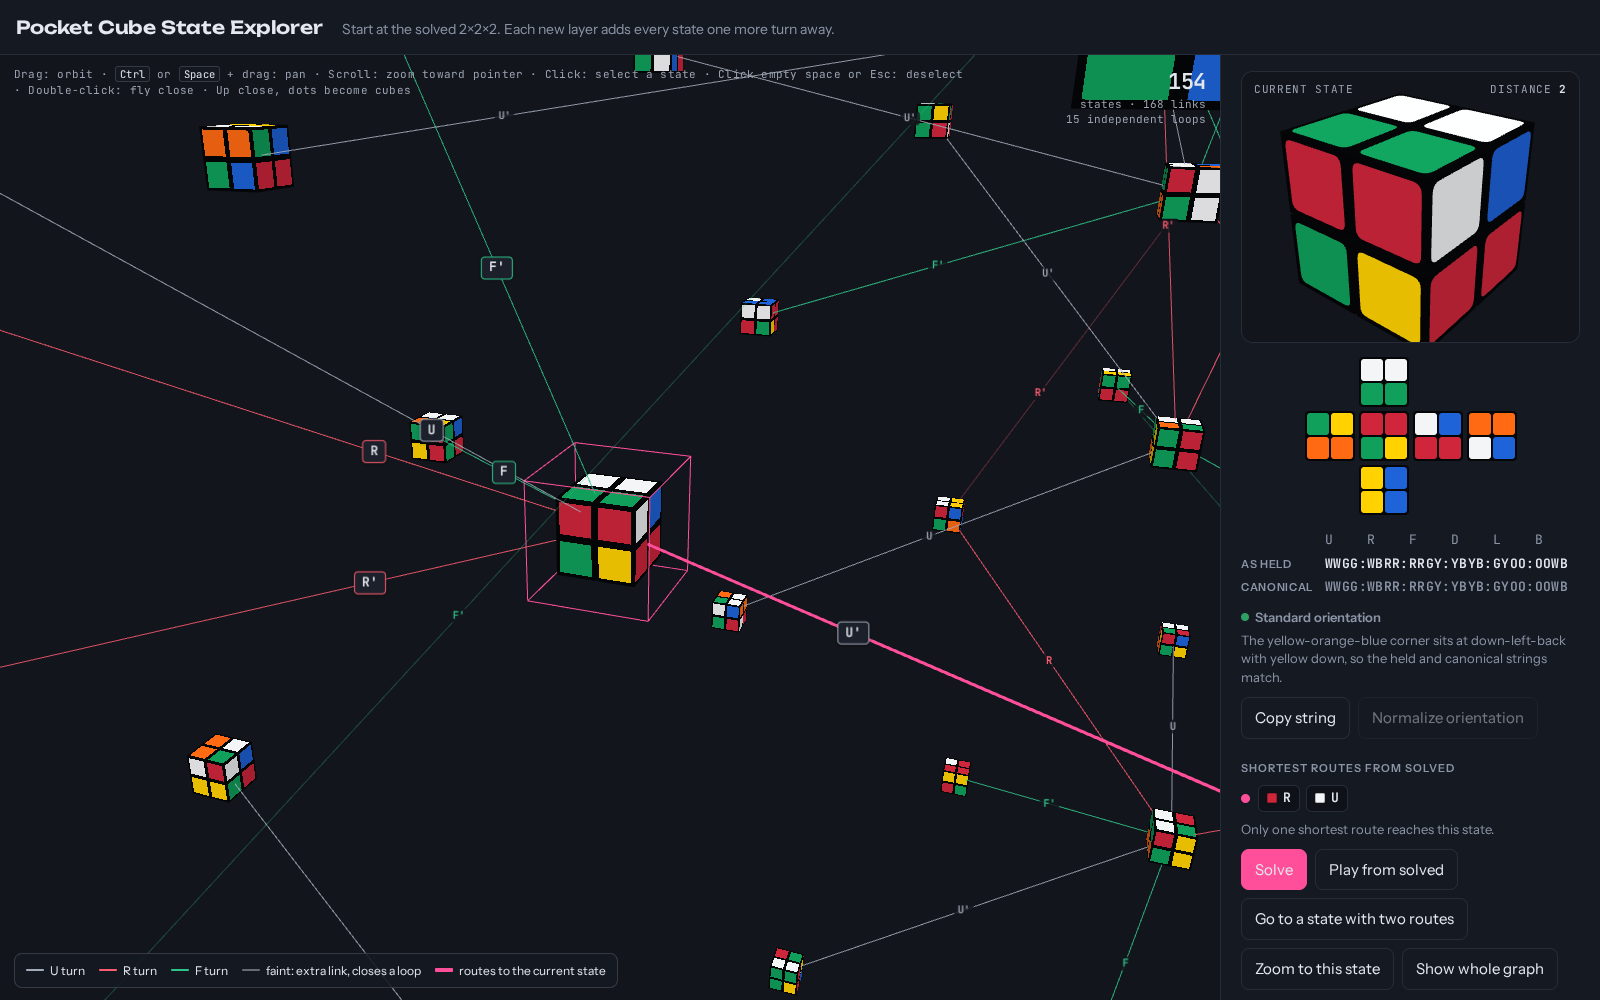
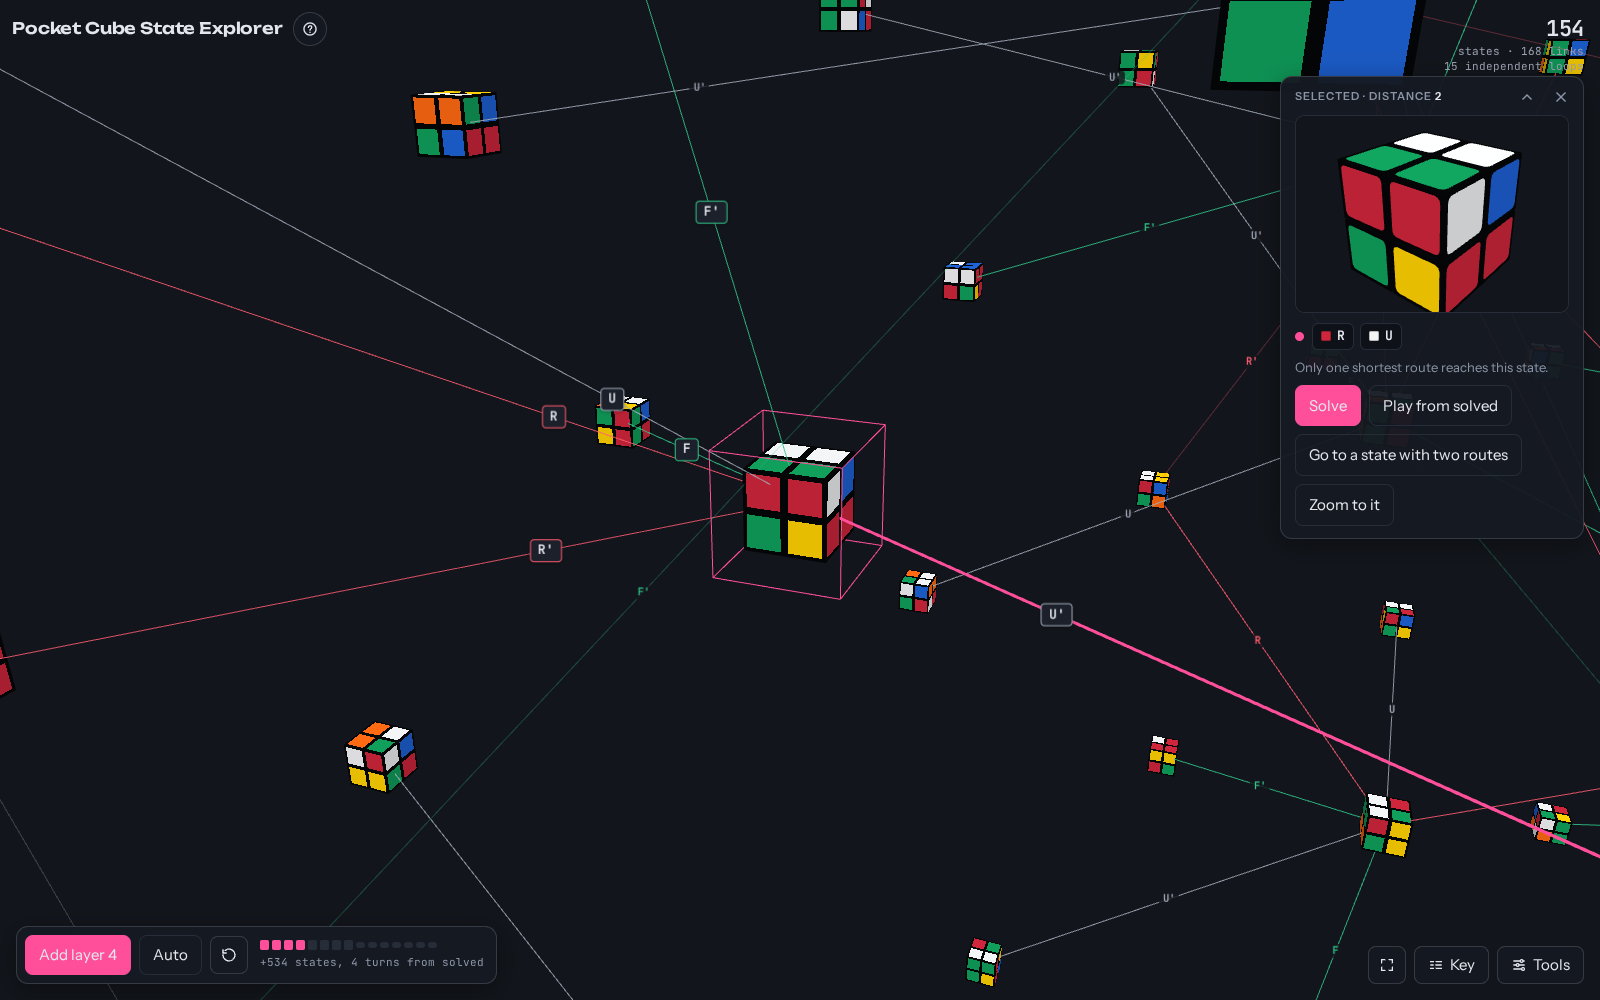
Docs and pictures for the controls on the stage
README: Add layer, the card, the Tools tabs, a new Tools screenshot and
the new embed attributes. The demo page adds a small capped explorer.
All screenshots and the link preview are regenerated.

diff --git a/scripts/screenshots.ts b/scripts/screenshots.ts
@@ -20,28 +20,36 @@ const DIST = join(ROOT, 'dist');
 async function open(page: Page, url: string) {
   await page.goto(url);
   await page.locator('#btnGrow').waitFor();
-  const pace = page.locator('#optPace');
-  if (await pace.isChecked()) await pace.uncheck();
+  // outer layers appear as soon as they are arranged (Tools > View > Animate the outer layers)
+  await page.locator('#optPace').evaluate((e: HTMLInputElement) => { e.checked = false; });
 }
 async function growTo(page: Page, layers: number) {
   for (let d = 1; d <= layers; d++) {
-    const grow = page.locator('#btnGrow');
-    await page.waitForFunction((t) => { const b = document.querySelector<HTMLButtonElement>('#btnGrow'); return !!b && b.textContent === t && !b.disabled; }, `Grow layer ${d}`, { timeout: 600_000 });
-    await grow.click();
+    await page.waitForFunction((t) => { const b = document.querySelector<HTMLButtonElement>('#btnGrow'); return !!b && b.textContent === t && !b.disabled; }, `Add layer ${d}`, { timeout: 600_000 });
+    await page.locator('#btnGrow').click();
+    // software WebGL here, so the explorer gives a heads-up before the heavy layers: agree
+    if (await page.locator('#btnHeadsYes').isVisible()) await page.locator('#btnHeadsYes').click();
     console.log(`  layer ${d}`);
   }
-  await page.waitForFunction((t) => document.querySelector('#btnGrow')?.textContent !== t, `Grow layer ${layers}`, { timeout: 600_000 });
+  await page.waitForFunction((t) => document.querySelector('#btnGrow')?.textContent !== t, `Add layer ${layers}`, { timeout: 600_000 });
   await page.locator('#statBusy').waitFor({ state: 'hidden', timeout: 600_000 });
 }
-async function find(page: Page, text: string) {
+async function tools(page: Page, tab: string) {
+  if ((await page.locator('#btnTools').getAttribute('aria-expanded')) !== 'true') await page.locator('#btnTools').click();
+  await page.getByRole('tab', { name: tab, exact: true }).click();
+}
+const closeTools = (page: Page) => page.locator('#btnToolsClose').click();
+async function find(page: Page, text: string, keepTools = false) {
+  await tools(page, 'Find');
   await page.locator('#stateInput').fill(text);
   await page.locator('#findForm button[type=submit]').click();
+  if (!keepTools) await closeTools(page);
 }
-/** Waits for the camera to come to rest, then tidies up: no focus ring, no hover, panel at the top. */
+/** Waits for the camera to come to rest, then tidies up: no focus ring, no hover. */
 async function settle(page: Page, ms = 6000) {
   await page.mouse.move(1, 1);
   await page.waitForTimeout(ms);
-  await page.evaluate(() => { (document.activeElement as HTMLElement | null)?.blur(); document.querySelector('.panel')!.scrollTop = 0; });
+  await page.evaluate(() => { (document.activeElement as HTMLElement | null)?.blur(); });
   await page.waitForTimeout(800);
 }
 /** Zooms with the wheel over the middle of the stage (negative: in). */
@@ -100,7 +108,9 @@ const scenes: Scene[] = [
     width: 1600, height: 1000, out: shot('tree'),
     async run(page) {
       await growTo(page, 5);
+      await tools(page, 'View');
       await page.getByRole('button', { name: 'Tree only' }).click();
+      await closeTools(page);
       await settle(page, 8000);
     },
   },
@@ -113,6 +123,17 @@ const scenes: Scene[] = [
       await settle(page, 6000);
       await zoom(page, -3);
       await settle(page, 4000);
+    },
+  },
+  {
+    name: 'tools', what: 'the Tools drawer open next to a selected state: the census of all layers',
+    width: 1600, height: 1000, out: shot('tools'),
+    async run(page) {
+      await growTo(page, 4);
+      await settle(page, 6000);
+      await find(page, "R U R'", true);
+      await tools(page, 'Data');
+      await settle(page, 5000);
     },
   },
   {

diff --git a/embed-demo.html b/embed-demo.html
@@ -18,14 +18,17 @@
 <body>
 <main>
   <h1>Embedding the Pocket Cube State Explorer</h1>
-  <p>This page stands in for a blog post. Its own styles (serif text, plain headings and buttons) do not reach into the explorer, and the explorer's styles do not leak out. The explorer below starts when it scrolls into view.</p>
+  <p>This page stands in for a blog post. Its own styles (serif text, plain headings and buttons) do not reach into the explorer, and the explorer's styles do not leak out. Each explorer starts when it scrolls into view and keeps the height it is given; its controls float on the 3D view, and Tools opens the rest over it.</p>
   <pre><code>&lt;script type="module" src="https://pocket-cube-state-explorer.vercel.app/embed/pocket-cube-explorer.js"&gt;&lt;/script&gt;
 &lt;pocket-cube-explorer no-header&gt;&lt;/pocket-cube-explorer&gt;</code></pre>
-  <p>In the text column, narrower than 860 px, the panel sits below the 3D stage:</p>
+  <p>In the text column, without its own title:</p>
   <pocket-cube-explorer no-header id="narrow"></pocket-cube-explorer>
-  <p>Wider than the column, with the title bar and a custom height:</p>
+  <p>Wider than the column, with its title and a custom height:</p>
   <pocket-cube-explorer class="wide" id="wide" style="--explorer-height: 640px"></pocket-cube-explorer>
   <p><button type="button" id="remove">Remove the wide explorer</button> (it stops and frees its WebGL contexts).</p>
+  <p>A small one that stops after two layers and shows only the growth bar and the selected state:</p>
+  <pre><code>&lt;pocket-cube-explorer no-header max-layers="2" controls="minimal" style="--explorer-height: 420px"&gt;&lt;/pocket-cube-explorer&gt;</code></pre>
+  <pocket-cube-explorer no-header max-layers="2" controls="minimal" id="small" style="--explorer-height: 420px"></pocket-cube-explorer>
 </main>
 <script type="module">
   import '/src/element.ts';

diff --git a/README.md b/README.md
@@ -14,33 +14,39 @@ stickers, and a large animated cube walks you along any route through the graph.
 
 ## What you can do
 
-- **Grow the graph** one layer at a time, or let Auto-grow build all 14 layers (11 with half turns).
-  The first 7 layers are drawn as stickered cubes with all their links; the outer layers stream in as
-  dots with a live count and time estimate.
-- **Select a state** by clicking it: the large cube jumps there and its shortest routes light up.
+- **Grow the graph** one layer at a time with **Add layer** (it says how many states the next layer
+  adds), or let **Auto** build all 14 layers (11 with half turns). The first 7 layers are drawn as
+  stickered cubes with all their links; the outer layers stream in as dots with a live count and time
+  estimate. On a phone or a slow device it says what a heavy layer costs before adding it.
+- **Select a state** by clicking it: a card shows it on a large 3D cube and its shortest routes light up.
   **Solve** walks it back to solved, **Play from solved** builds it up, and the camera can follow the
   cube through the graph one state per turn. Click the selected cube again for boxed labels of the
   turns you can make from it; click one to make that turn.
-- **Find a state** from a scramble (`R U R' F2`) or a facelet string (`WGWG:RRRR:GYGY:YBYB:OOOO:WBWB`),
+- **Find a state** (Tools › Find) from a scramble (`R U R' F2`) or a facelet string (`WGWG:RRRR:GYGY:YBYB:OOOO:WBWB`),
   or jump to a random one. States beyond the drawn layers are found too, with their distance and a
   shortest route.
 
 ![A scramble found in the graph: the selected cube in its box, its shortest route in pink, links labelled with their turns](docs/screenshots/routes.png)
 
-- **See that it is a graph, not a tree**: switch between all links, the tree of first routes, and the
+- **See that it is a graph, not a tree** (Tools › View): switch between all links, the tree of first routes, and the
   extra links that close loops; colour the outer dots by how many shortest routes enter each state;
   bundled links show where routes merge between the outer layers.
 
-![Tree only: the first route found to each state, six layers out from the solved cube](docs/screenshots/tree.png)
+![Tree only: the first route found to each state, five layers out from the solved cube](docs/screenshots/tree.png)
 
 - **Zoom into any region** (scroll toward the pointer; pan with Space, ⌘ or Ctrl + drag; double-click to
   fly close): nearby dots turn into cubes with their links and turn labels.
 
 ![Up close in layer 8: the dots around the selected state are drawn as stickered cubes with their links](docs/screenshots/dots-up-close.png)
 
-- **Turn the cube** with U, R, F, D, L, B and whole-cube rotations x, y, z; the 2D net and facelet
-  strings show the state, held and in canonical orientation.
-- **Light or dark**: it follows your system, or pick one under Appearance; the 3D stage, links and
+- **Turn the cube** (Tools › Turn) with U, R, F, D, L, B and whole-cube rotations x, y, z; the 2D net
+  and facelet strings show the state, held and in canonical orientation.
+- **Dig into the numbers** (Tools › Data): every layer's size, how much is drawn, the loops, and how
+  many shortest routes reach the states of each layer.
+
+![The Tools drawer open on Data, beside the selected state's card: the census of all 15 layers](docs/screenshots/tools.png)
+
+- **Light or dark**: it follows your system, or pick one under Tools › View; the 3D stage, links and
   labels change with it.
 
 ![Dark mode: a selected state with its route in pink and its turns in boxed labels](docs/screenshots/dark.png)
@@ -57,12 +63,15 @@ The explorer is also a web component. Add one script and the element:
 
 It renders inside its own shadow root, so your page's styles do not change it and its styles do not
 leak into your page. It starts when it first scrolls near the viewport, and stops (freeing its WebGL
-contexts) when it is removed from the page. A [demo page](https://pocket-cube-state-explorer.vercel.app/embed-demo.html)
-shows two of them in a blog-like layout.
+contexts) when it is removed from the page. Its controls float on the 3D view and rearrange themselves
+when it is narrow, so it keeps the height you give it at any width. A
+[demo page](https://pocket-cube-state-explorer.vercel.app/embed-demo.html) shows three of them in a
+blog-like layout.
 
-- `no-header` hides its title bar (your page has its own); `eager` starts it at once.
-- Height: `--explorer-height` (default `720px`), e.g. `style="--explorer-height: 80vh"`. Narrower than
-  860 px, the panel goes below the 3D stage and the element grows to fit.
+- `no-header` hides its title (your page has its own); `eager` starts it at once.
+- Height: `--explorer-height` (default `720px`), e.g. `style="--explorer-height: 80vh"`.
+- `max-layers="8"` stops readers after that many layers; `controls="minimal"` shows only the growth
+  bar, the selected state and help; `tools="open"` opens the Tools drawer at the start.
 - `data-theme="light"` or `"dark"` fixes its colour theme, 3D stage included (default: the system's);
   change the attribute and it recolours at once. The design tokens are CSS custom properties on its
   root, set per theme in `src/styles/tokens.css`.

diff --git a/CLAUDE.md b/CLAUDE.md
@@ -54,13 +54,19 @@ import each other freely (only functions, nothing runs at import time).
 - `cube/` – the live cube in the panel and its turn queue (`live-cube.ts`), Solve / Play from solved
   / Walk the loop and walk timing (`walks.ts`).
 - `ui/` – the markup (`template.html`), typed element lookup inside the container (`elements.ts`),
-  panel controls, census and totals (`panel.ts`), net and orientation (`net.ts`), routes list
-  (`routes.ts`), find a state (`find.ts`), progress line (`status.ts`).
+  the controls on the stage: help and Key pop-ups, Tools drawer and tabs, selection card, coach mark,
+  heads-up (`controls.ts`); growth bar, meter, census, totals and the drawer's settings (`panel.ts`),
+  net and orientation (`net.ts`), routes list (`routes.ts`), find a state (`find.ts`), progress line
+  (`status.ts`).
 - `explorer/` – selection and highlights (`selection.ts`), where states are drawn (`locate.ts`),
-  growing and Start over (`grow.ts`), the frame loop with on-demand drawing (`frame.ts`), settings,
+  growing, Start over, the layer cap and the out-of-memory stop (`grow.ts`), device hints and the
+  heads-up before heavy layers (`device.ts`), themes (`appearance.ts`), the frame loop with on-demand drawing (`frame.ts`), settings,
   theme (3D colours read from the CSS tokens), RNG, listeners that `destroy()` removes (`events.ts`).
 - `explorer.ts` – `createExplorer(container, { keyboard })` → `{ destroy }`. `main.ts` mounts it on
   the standalone page; `element.ts` is the web component.
+- Layout: the 3D stage fills the explorer at the height it is given; everything else floats on it
+  (`styles/controls.css`) or sits in the Tools drawer. Container queries rearrange it below 900 px
+  (the drawer covers the stage, the card steps back) and 560 px (card and drawer become bottom sheets).
 - `styles/` – `tokens.css` (on `.pcse`, the explorer's root; dark values under `data-theme="dark"`
   and `prefers-color-scheme`), `layout.css`, `stage.css`, `panel.css`, combined by
   `explorer.css`; `page.css` is only for the standalone page. The narrow layout is a container query
@@ -129,3 +135,6 @@ import each other freely (only functions, nothing runs at import time).
   Playwright config pick them up automatically.
 - Playwright locators pierce open shadow roots; scope them to one element when a page has two
   explorers (they use the same ids inside).
+- Headless Chromium counts as a device without a GPU, so the explorer shows its heads-up before the
+  outer layers; `growTo` in `e2e/helpers.ts` (and the screenshot script) accepts it. Many controls
+  live in hidden Tools tabs: open them with `openTool`, and query hidden ones by attribute, not role.
